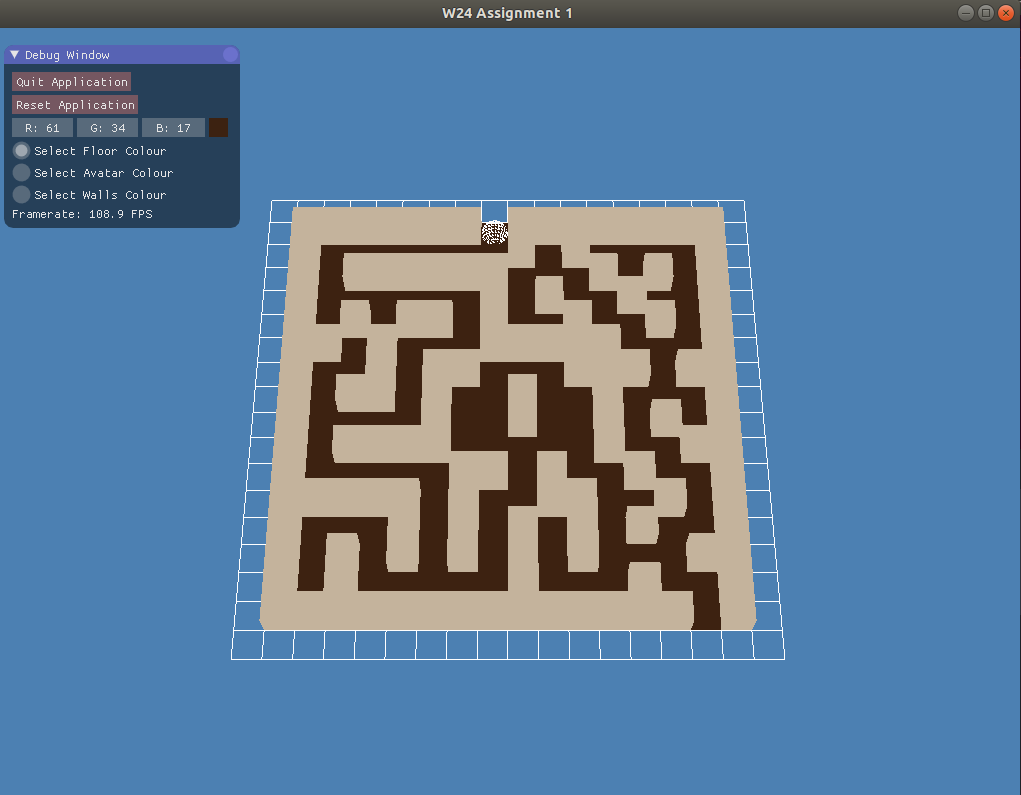
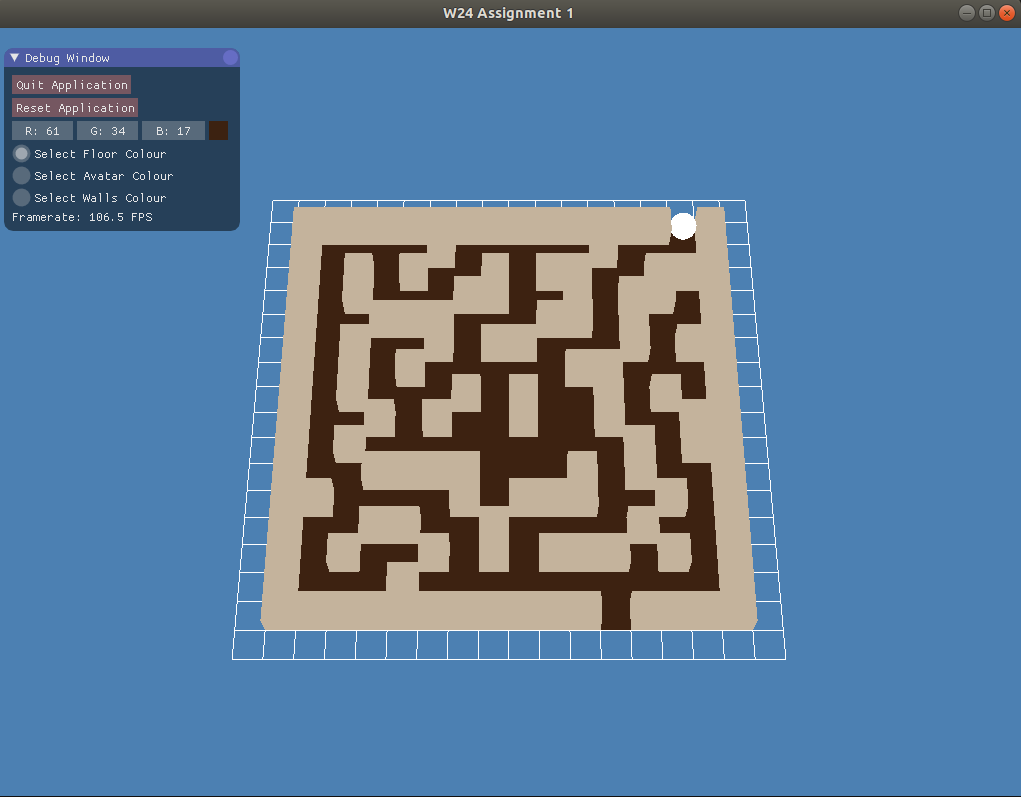
FINALLY FIXED THE SPHERE

diff --git a/A1/A1.cpp b/A1/A1.cpp
@@ -406,7 +406,7 @@ void A1::drawAvatar() {
 			float yCoord = radius * cos(stackAngle) * sin(sectorAngle);
 			float zCoord = radius * sin(stackAngle);
 			verts.push_back(xCoord + fAvatarColumn + 0.5); // Add 0.5 to x and z to center the sphere in the grid
-			verts.push_back(yCoord + OFFSET_OFF_GRID);
+			verts.push_back(yCoord + OFFSET_OFF_GRID + 0.5); // Add 0.5 to y to get the sphere off the ground
 			verts.push_back(zCoord + fAvatarRow + 0.5);
 		}
 	}
@@ -445,7 +445,7 @@ void A1::drawAvatar() {
 			int bVertexYCoordIdx = bVertexXCoordIdx + 1;
 			int bVertexZCoordIdx = bVertexXCoordIdx + 2;
 
-			int cVertexXCoordIdx = ((i + 1) * (numSectors + 1) + (j + 1)) * 3;
+			int cVertexXCoordIdx = ((i + 1) * (numSectors + 1) + j) * 3;
 			int cVertexYCoordIdx = cVertexXCoordIdx + 1;
 			int cVertexZCoordIdx = cVertexXCoordIdx + 2;
 
